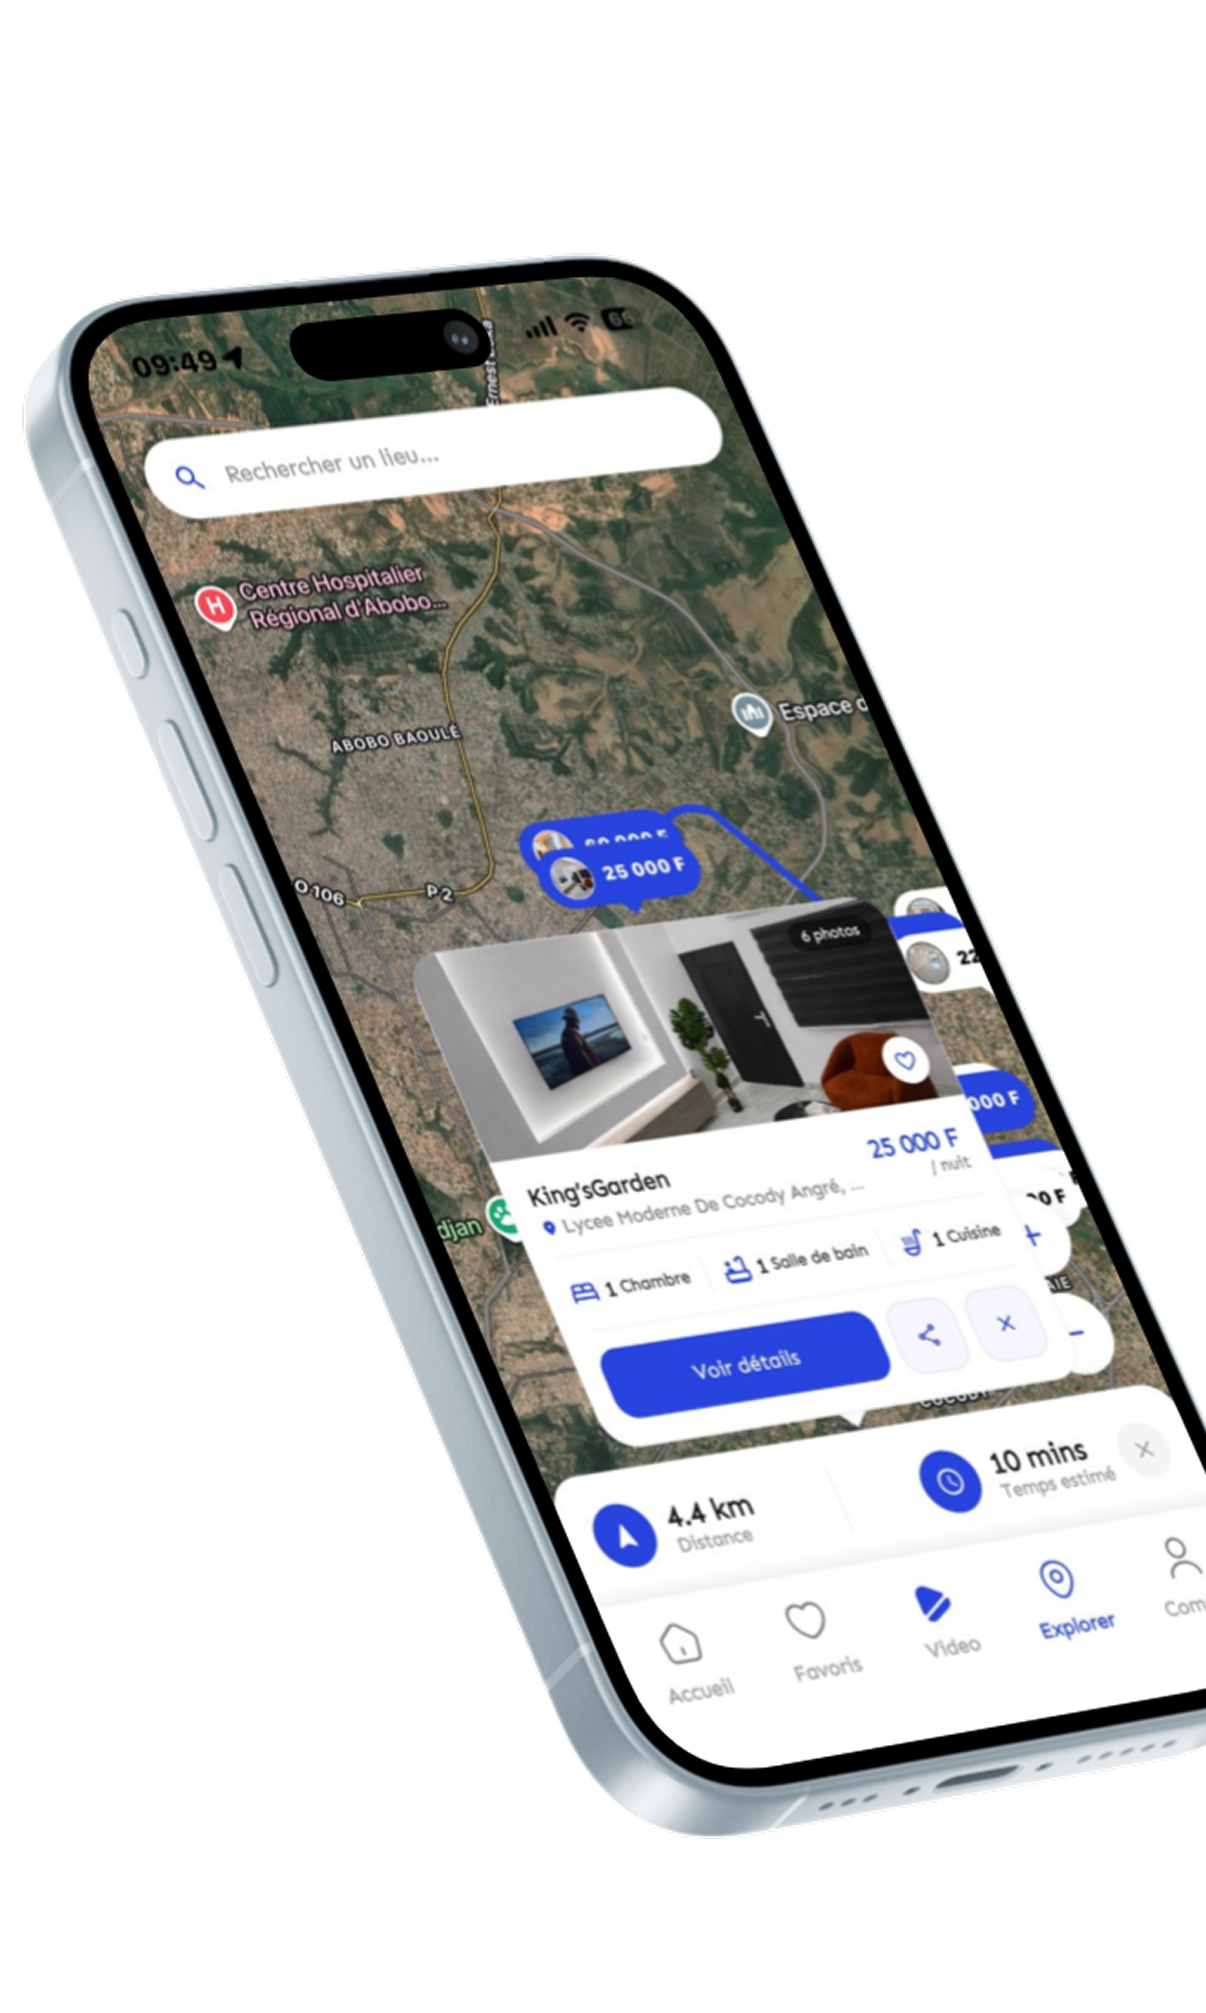
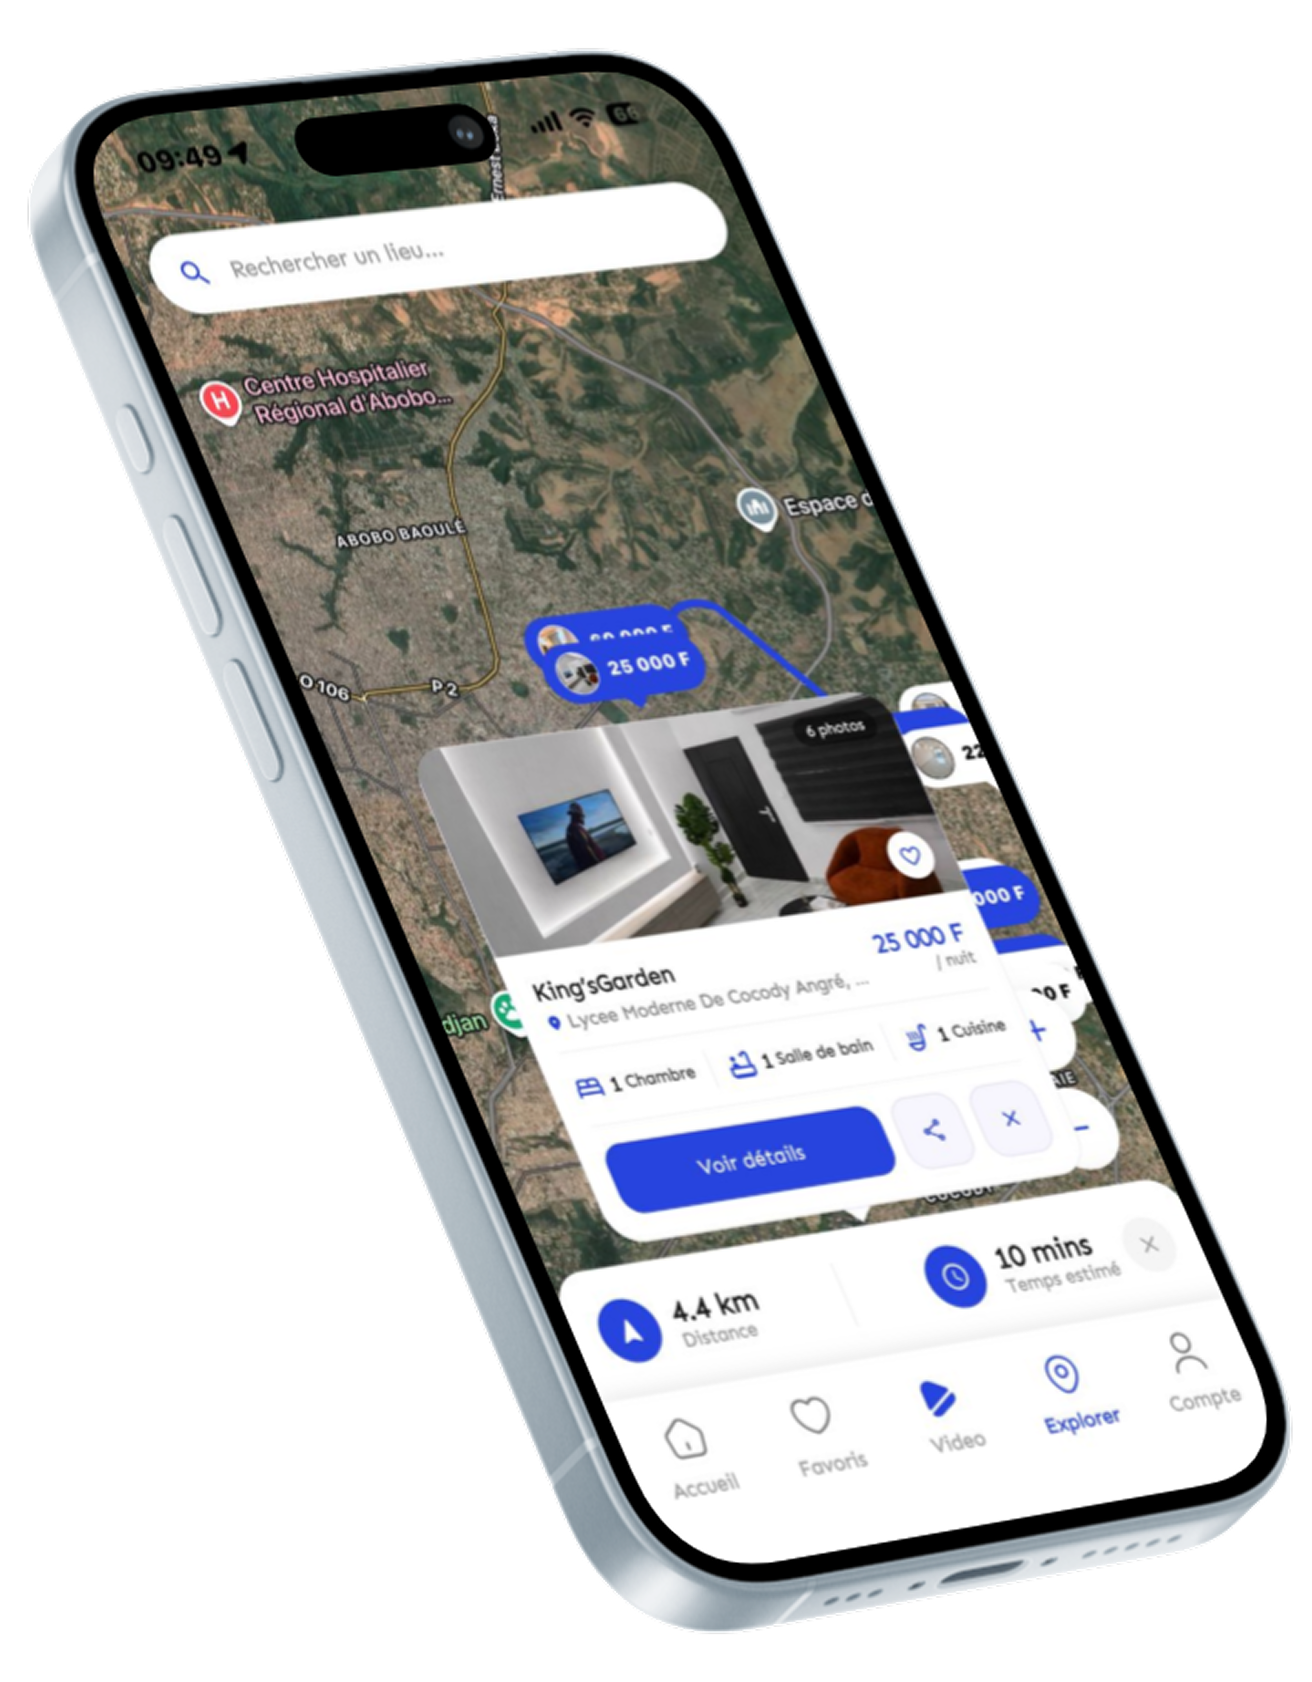
add subcategorie tab

diff --git a/lib/app/utils/filter_handler.dart b/lib/app/utils/filter_handler.dart
@@ -15,6 +15,44 @@ enum FilterField {
   price,
 }
 
+enum EstateSubCategory {
+  all('Tous', null),
+  appartement('Appartement', 'appartement'),
+  maison('Maison', 'maison'),
+  villa('Villa', 'villa'),
+  studio('Studio', 'studio'),
+  duplex('Duplex', 'duplex'),
+  bureau('Bureau', 'bureau'),
+  terrain('Terrain', 'terrain');
+
+  final String label;
+  final String? value;
+  const EstateSubCategory(this.label, this.value);
+}
+
+enum FurnitureSubCategory {
+  all('Tous', null),
+  salon('Salon', 'salon'),
+  chambre('Chambre', 'chambre'),
+  literie('Literie', 'literie'),
+  cuisineSalleAManger('Cuisine & Salle à manger', 'cuisine-salle-a-manger'),
+  salleDeBain('Salle de bain', 'salle-de-bain'),
+  bureau('Bureau', 'bureau'),
+  rangement('Rangement', 'rangement'),
+  decoration('Décoration', 'decoration'),
+  eclairage('Éclairage', 'eclairage'),
+  mobilierExterieur('Mobilier extérieur', 'mobilier-exterieur'),
+  enfantBebe('Enfant & Bébé', 'enfant-bebe'),
+  electromenager('Électroménager', 'electromenager'),
+  multimedia('Multimédia', 'multimedia'),
+  evenementiel('Événementiel', 'evenementiel'),
+  commerceProfessionnel('Commerce & Pro', 'commerce-professionnel');
+
+  final String label;
+  final String? value;
+  const FurnitureSubCategory(this.label, this.value);
+}
+
 class FilterHandler {
   static String? search;
   static String? startDate;
@@ -24,6 +62,8 @@ class FilterHandler {
   static int minPrice = minPriceLimit;
   static int maxPrice = maxPriceLimit;
   static String? locationName;
+  static EstateSubCategory estateSubCategory = EstateSubCategory.all;
+  static FurnitureSubCategory furnitureSubCategory = FurnitureSubCategory.all;
 
   static final ValueNotifier<int> _notifier = ValueNotifier<int>(0);
   static ValueNotifier<int> get notifier => _notifier;
@@ -42,6 +82,9 @@ class FilterHandler {
 
     minPrice = minPriceLimit;
     maxPrice = maxPriceLimit;
+
+    estateSubCategory = EstateSubCategory.all;
+    furnitureSubCategory = FurnitureSubCategory.all;
 
     notifyChange();
   }
@@ -96,6 +139,11 @@ class FilterHandler {
           '{"_field": "statusValidation", "_op": "eq", "_val": "valide"}',
           '{"_field": "aLouer", "_op": "eq", "_val": true}',
         ]);
+        if (estateSubCategory != EstateSubCategory.all &&
+            estateSubCategory.value != null) {
+          allFilters.add(
+              '{"_field": "typeBienImmobilier", "_op": "eq", "_val": "${estateSubCategory.value}"}');
+        }
         break;
 
       case PropertyType.land:
@@ -104,6 +152,19 @@ class FilterHandler {
           '{"_field": "statusValidation", "_op": "eq", "_val": "valide"}',
           '{"_field": "aLouer", "_op": "eq", "_val": false}'
         ]);
+        if (estateSubCategory != EstateSubCategory.all &&
+            estateSubCategory.value != null) {
+          allFilters.add(
+              '{"_field": "typeBienImmobilier", "_op": "eq", "_val": "${estateSubCategory.value}"}');
+        }
+        break;
+
+      case PropertyType.furniture:
+        if (furnitureSubCategory != FurnitureSubCategory.all &&
+            furnitureSubCategory.value != null) {
+          allFilters.add(
+              '{"_field": "category", "_op": "eq", "_val": "${furnitureSubCategory.value}"}');
+        }
         break;
 
       // Autres types...
@@ -131,7 +192,9 @@ class FilterHandler {
         startDate != null ||
         endDate != null ||
         minPrice > minPriceLimit ||
-        maxPrice < maxPriceLimit;
+        maxPrice < maxPriceLimit ||
+        estateSubCategory != EstateSubCategory.all ||
+        furnitureSubCategory != FurnitureSubCategory.all;
   }
 
   static List<Widget> getActiveFiltersChips({VoidCallback? onRefresh}) {

diff --git a/lib/app/features/home_page/components/home_search_appbar.dart b/lib/app/features/home_page/components/home_search_appbar.dart
@@ -320,6 +320,74 @@ class _HomeSearchAppbarState extends State<HomeSearchAppbar> {
     );
   }
 
+  Widget _buildSubCategoryTabs() {
+    if (widget.currentIndex == 0) return const SizedBox.shrink();
+
+    final isFurniture = widget.currentIndex == 2;
+    final items =
+        isFurniture ? FurnitureSubCategory.values : EstateSubCategory.values;
+
+    final selectedValue = isFurniture
+        ? FilterHandler.furnitureSubCategory
+        : FilterHandler.estateSubCategory;
+
+    return Container(
+      height: 30,
+      width: double.infinity,
+      child: ListView.separated(
+        scrollDirection: Axis.horizontal,
+        padding: const EdgeInsets.symmetric(horizontal: 16),
+        itemCount: items.length,
+        separatorBuilder: (context, index) => const SizedBox(width: 20),
+        itemBuilder: (context, index) {
+          final item = items[index];
+          final isSelected = selectedValue == item;
+          final label = isFurniture
+              ? (item as FurnitureSubCategory).label
+              : (item as EstateSubCategory).label;
+
+          return GestureDetector(
+            onTap: () {
+              setState(() {
+                if (isFurniture) {
+                  FilterHandler.furnitureSubCategory =
+                      item as FurnitureSubCategory;
+                } else {
+                  FilterHandler.estateSubCategory = item as EstateSubCategory;
+                }
+              });
+              FilterHandler.notifyChange();
+              HomePageState.refreshPage(widget.currentIndex);
+            },
+            child: Container(
+              alignment: Alignment.center,
+              padding: const EdgeInsets.only(bottom: 8),
+              decoration: BoxDecoration(
+                border: isSelected
+                    ? Border(
+                        bottom: BorderSide(
+                          color: AppColors.primary,
+                          width: 2,
+                        ),
+                      )
+                    : null,
+              ),
+              child: Text(
+                label,
+                style: Theme.of(context).textTheme.bodyMedium?.copyWith(
+                      color:
+                          isSelected ? AppColors.primary : Colors.grey.shade600,
+                      fontWeight:
+                          isSelected ? FontWeight.w600 : FontWeight.w500,
+                    ),
+              ),
+            ),
+          );
+        },
+      ),
+    );
+  }
+
   @override
   Widget build(BuildContext context) {
     return BlocListener<LocationPermissionCubit, LocationPermissionState>(
@@ -482,8 +550,18 @@ class _HomeSearchAppbarState extends State<HomeSearchAppbar> {
                   ),
                 ),
                 bottom: PreferredSize(
-                  preferredSize: const Size.fromHeight(50),
-                  child: HomeChoiceMenu(),
+                  preferredSize:
+                      Size.fromHeight(widget.currentIndex == 0 ? 50 : 100),
+                  child: Column(
+                    mainAxisSize: MainAxisSize.min,
+                    children: [
+                      HomeChoiceMenu(),
+                      if (widget.currentIndex != 0) ...[
+                        Gap(15),
+                        _buildSubCategoryTabs()
+                      ],
+                    ],
+                  ),
                 ),
               );
             },

diff --git a/lib/app/features/filter/filter_page.dart b/lib/app/features/filter/filter_page.dart
@@ -69,8 +69,8 @@ class _FilterPageState extends State<FilterPage> {
                       useRootNavigator: true,
                       context: context,
                       isScrollControlled: true,
-                      enableDrag: false,
-                      showDragHandle: true,
+                      enableDrag: true,
+                      showDragHandle: false,
                       backgroundColor: AppColors.whiteBackground,
                       shape: const RoundedRectangleBorder(
                           borderRadius:
@@ -120,17 +120,15 @@ class _FilterPageState extends State<FilterPage> {
                             currentAddress == null
                                 ? 'Sélectionner un lieu'
                                 : currentAddress!.description.toString(),
-                            style: Theme.of(context)
-                                .textTheme
-                                .bodyLarge
-                                ?.copyWith(
-                                  fontWeight: currentAddress == null
-                                      ? FontWeight.w400
-                                      : FontWeight.w600,
-                                  color: currentAddress == null
-                                      ? const Color(0xFF98A2B3)
-                                      : const Color(0xFF344054),
-                                ),
+                            style:
+                                Theme.of(context).textTheme.bodyLarge?.copyWith(
+                                      fontWeight: currentAddress == null
+                                          ? FontWeight.w400
+                                          : FontWeight.w600,
+                                      color: currentAddress == null
+                                          ? const Color(0xFF98A2B3)
+                                          : const Color(0xFF344054),
+                                    ),
                           ),
                         ),
                         Icon(

diff --git a/lib/app/features/account/account_page.dart b/lib/app/features/account/account_page.dart
@@ -395,6 +395,21 @@ class _AccountPageState extends State<AccountPage> {
           onTap: () => context.pushNamed(BookingHistoryPage.name),
         ),
         SettingsTile(
+          shape: SettingsTile.shapeLast,
+          leading:
+              _iconLeading(Icon(Iconsax.reserve, size: 18, color: _kIconColor)),
+          title: 'Mes demandes',
+          titleColor: _kLabelColor,
+          trailingColor: _kTrailingColor,
+          titleStyle: GoogleFonts.dmSans(
+            fontSize: 16,
+            fontWeight: FontWeight.w500,
+            color: _kLabelColor,
+            height: 1.25,
+          ),
+          onTap: () => context.pushNamed(AlertListPage.name),
+        ),
+        SettingsTile(
           shape: SettingsTile.shapeMiddle,
           leading: _iconLeading(
               Icon(FontAwesomeIcons.creditCard, size: 18, color: _kIconColor)),
@@ -438,21 +453,6 @@ class _AccountPageState extends State<AccountPage> {
             height: 1.25,
           ),
           onTap: () => context.pushNamed(PaymentHistoryPage.name),
-        ),
-        SettingsTile(
-          shape: SettingsTile.shapeLast,
-          leading: _iconLeading(
-              Icon(Iconsax.document_text, size: 18, color: _kIconColor)),
-          title: 'Mes demandes',
-          titleColor: _kLabelColor,
-          trailingColor: _kTrailingColor,
-          titleStyle: GoogleFonts.dmSans(
-            fontSize: 16,
-            fontWeight: FontWeight.w500,
-            color: _kLabelColor,
-            height: 1.25,
-          ),
-          onTap: () => context.pushNamed(AlertListPage.name),
         ),
       ]),
     );

diff --git a/lib/app/features/alert/pages/alert_detail_page.dart b/lib/app/features/alert/pages/alert_detail_page.dart
@@ -305,7 +305,7 @@ class _AlertDetailPageState extends State<AlertDetailPage> {
         Container(
           padding: const EdgeInsets.symmetric(horizontal: 16, vertical: 16),
           decoration: BoxDecoration(
-            border: Border.all(color: Colors.blue.shade100),
+            border: Border.all(color: AppColors.primary.withOpacity(0.1)),
             borderRadius: BorderRadius.circular(12),
           ),
           child: Row(
@@ -322,8 +322,6 @@ class _AlertDetailPageState extends State<AlertDetailPage> {
                   ),
                 ),
               ),
-              Icon(Icons.arrow_forward_ios,
-                  color: Colors.blue.shade300, size: 16),
             ],
           ),
         ),

diff --git a/lib/app/features/alert/pages/alert_create_edit_page.dart b/lib/app/features/alert/pages/alert_create_edit_page.dart
@@ -71,8 +71,8 @@ class _AlertCreateEditPageState extends State<AlertCreateEditPage> {
       useRootNavigator: true,
       context: context,
       isScrollControlled: true,
-      enableDrag: false,
-      showDragHandle: true,
+      enableDrag: true,
+      showDragHandle: false,
       backgroundColor: AppColors.whiteBackground,
       shape: const RoundedRectangleBorder(
           borderRadius: BorderRadius.vertical(top: Radius.circular(24))),
